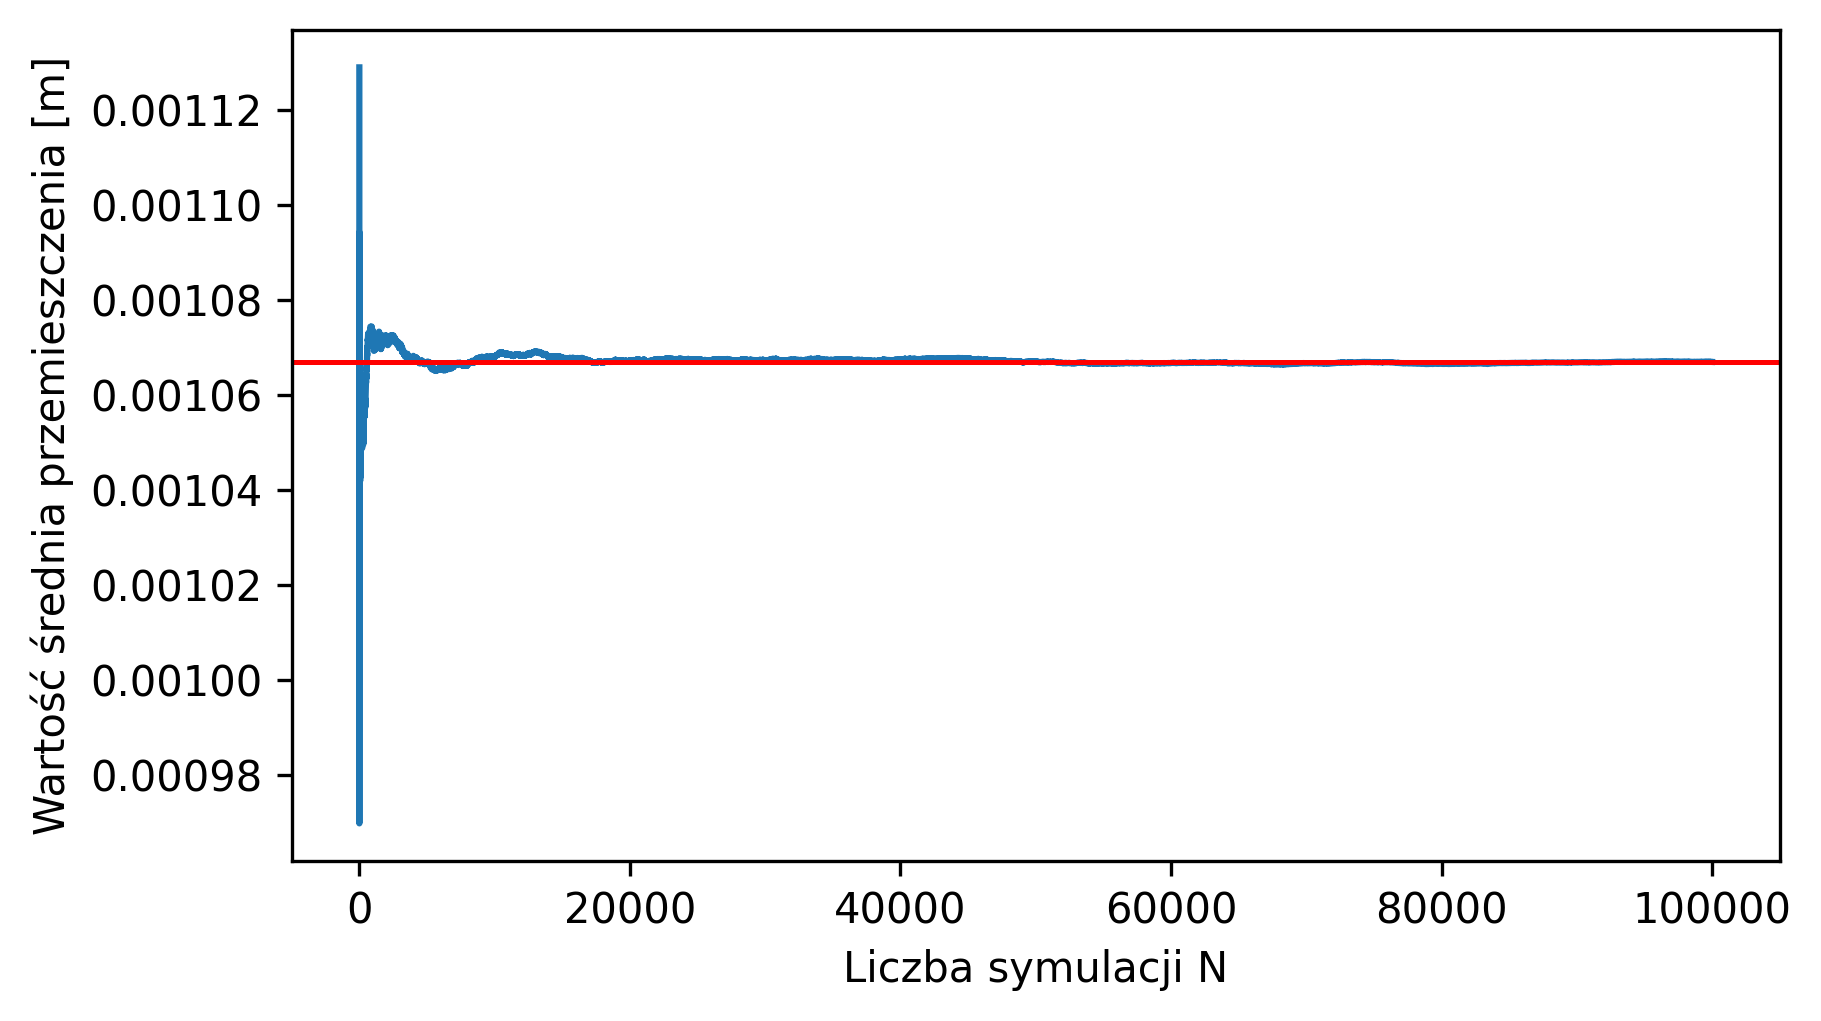
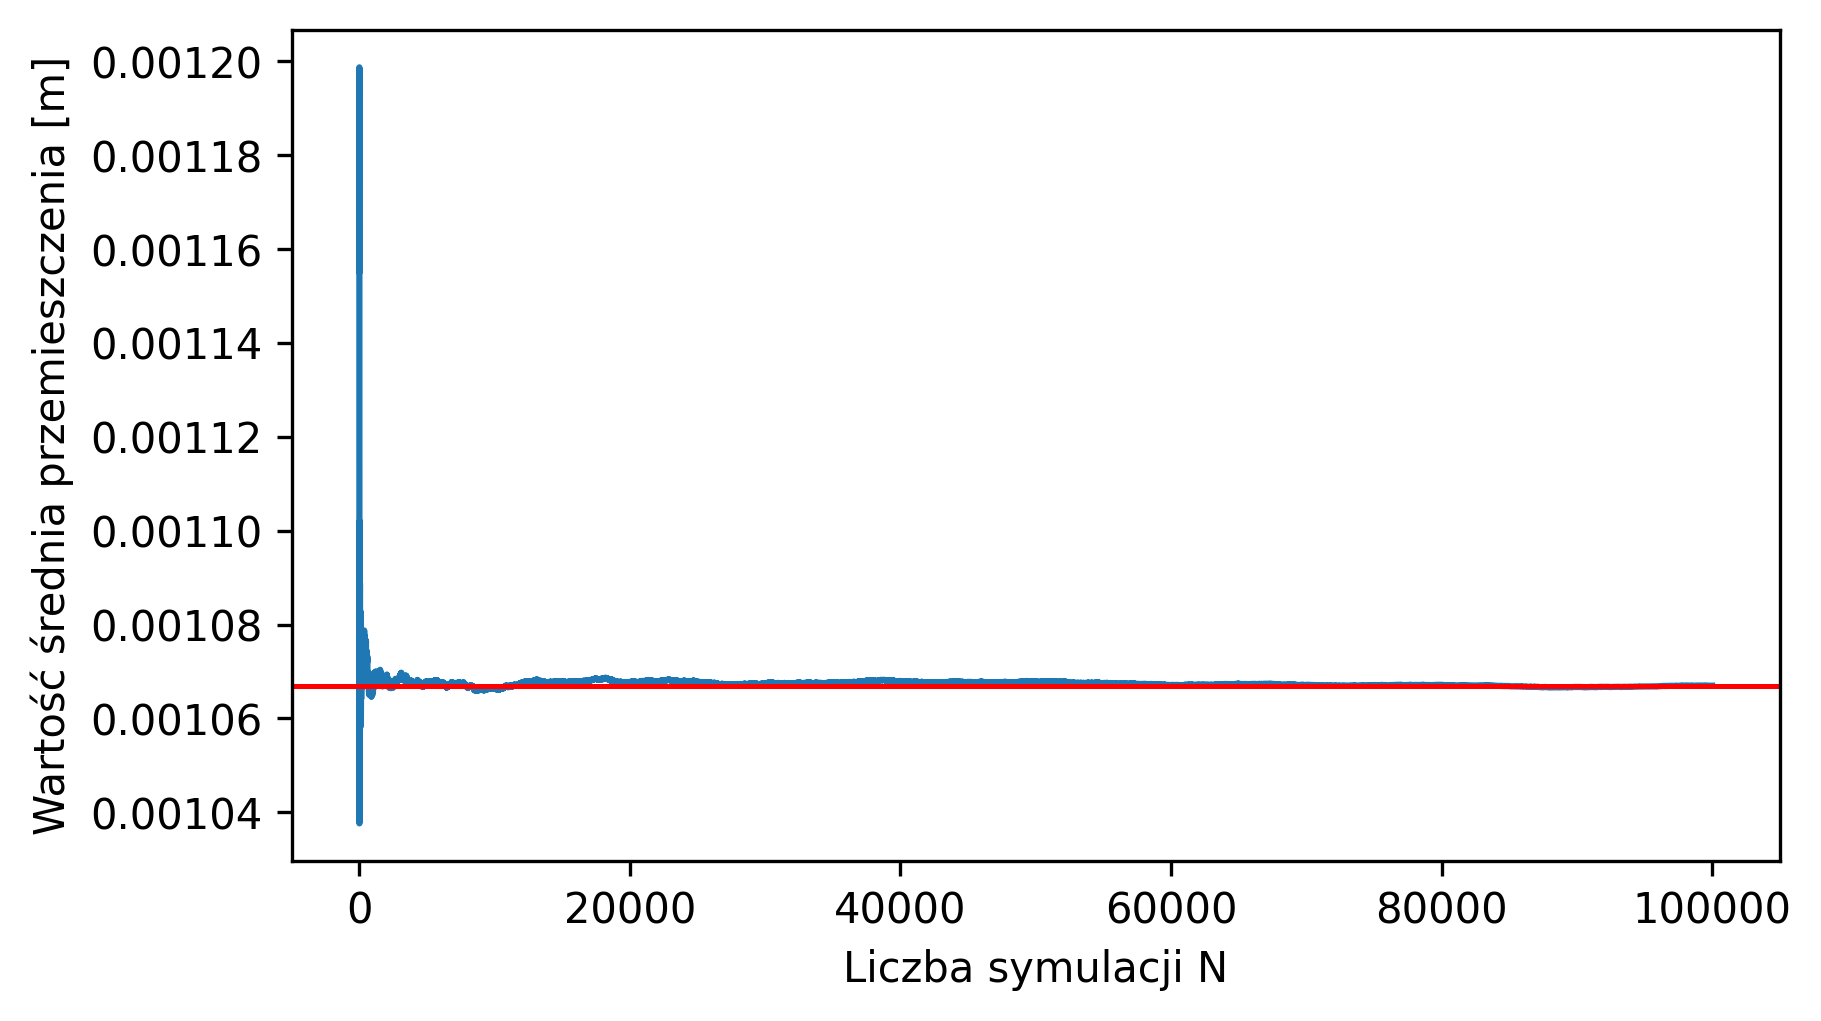
Update

Changed region(s): [[0.0308, 0.0304, 0.9841, 0.8198]]

diff --git a/osp/Structures/shared.py b/osp/Structures/shared.py
@@ -53,7 +53,7 @@ def save_results(n_fail: int, n_trials: int, u_sims, structure_name: str):
 
     plt.figure(figsize=(width_in_inches, height_in_inches), dpi=300)
     opsv.plot_defo()
-    plt.savefig(os.path.join(save_dir, f'{structure_name}_{n_trials}_def.png'), dpi=300, bbox_inches='tight')
+    plt.savefig(os.path.join(save_dir, f'{structure_name}_deformation.png'), dpi=300, bbox_inches='tight')
 
     plt.figure(figsize=(width_in_inches, height_in_inches), dpi=300)
     plt.plot(u_sims)

diff --git a/osp/Structures/rama.py b/osp/Structures/rama.py
@@ -72,7 +72,7 @@ ops.probabilityTransformation('Nataf', '-print', 0)
 
 # region Obliczenia i wyniki
 nFail = 0
-nTrials = 1000000
+nTrials = 100000
 u_sims = np.zeros(nTrials)
 
 calculate(nTrials, 2, 1, u_sims)
